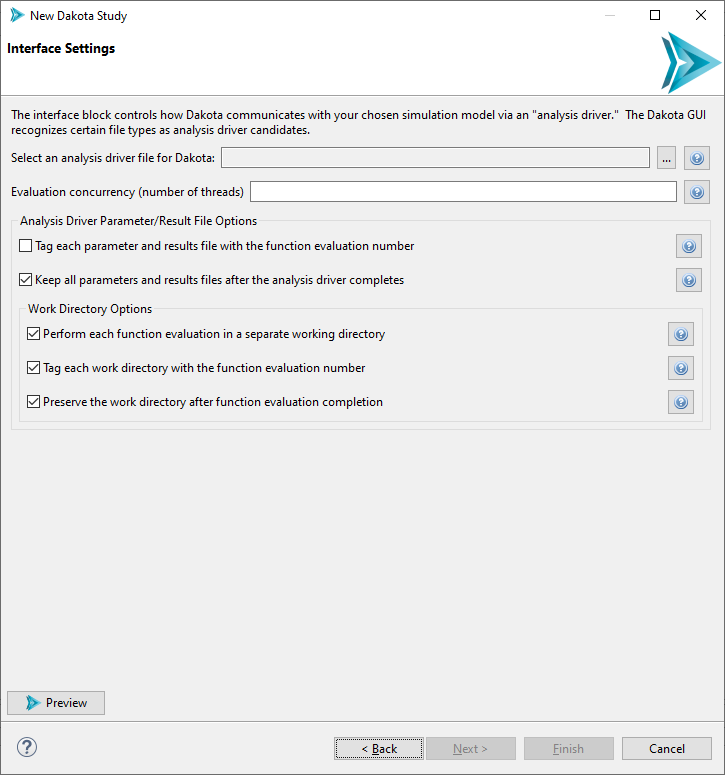
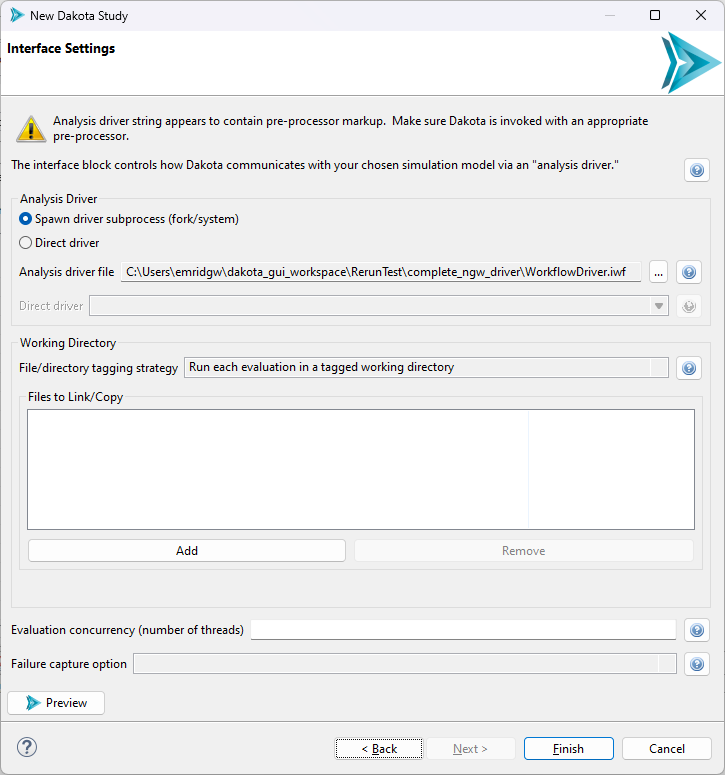
Updating existing GUI manual pages for 6.19 release

diff --git a/docs/user/usingdakotagui/inputfiles/DakotaVisualEditor.rst b/docs/user/usingdakotagui/inputfiles/DakotaVisualEditor.rst
@@ -16,6 +16,8 @@ If the Dakota Visual Editor is not configured as your default editor of Dakota i
 .. image:: img/DakotaVisualEditor.png
    :alt: Dakota Visual Editor
 
+.. _gui-visual-editor-top:
+
 =============
 The Top Level
 =============
@@ -25,22 +27,43 @@ When first opened, the Dakota Visual Editor shows you the top level of a Dakota 
 .. image:: img/DakotaVisualEditor_2.png
    :alt: The top level
 
-The hiearchical relationship of Dakota blocks is made explicit through indentation.  Clicking on any Dakota block will take you to the editor for that block.
+The hiearchical relationship of Dakota blocks is made explicit through indentation.
+
+Top Level Context Menu
+----------------------
+
+Right-clicking anywhere in the top-level view of a Dakota input file will give you the following pop-up context menu:
+
+.. image:: img/DakotaVisualEditor_16.png
+   :alt: The top level
+   
+- **New:** This sub-menu allows you to generate new Dakota input blocks, with options that are appropriate for the context of the existing block you clicked on. If you didn't click on any Dakota block, you can still
+  use this sub-menu to generate a Dakota environment block.
+- **Rename:** Rename the selected block's ID field. This option is enabled for every type of block except for environment blocks, which have no IDs.
+- **Reparent:** Changes the parent relationship of the selected block. This is only appropriate if you have selected a block that has multiple possible parents (for example, selecting a "variables" block in a study
+  with multiple "model" blocks).
+- **Delete:** Deletes the selected block.
+
+Diving
+------
+
+Clicking on any Dakota block will take you to the editor for that block.
 
 After diving into a specific Dakota block, the action bar along the top of the editor will update:
 
 .. image:: img/DakotaVisualEditor_3.png
    :alt: Button enablement
 
-The left and right arrow buttons will allow you to traverse to the previous or next Dakota block in the input file, respectively.  The up arrow will allow you to return to the top of the Dakota input file.
-
-Also note the green play button in the action bar.  This will allow you to run the Dakota study right away, using an
-auto-generated :ref:`run configuration <gui-run-configurations-eclipse-run-configs>` with default settings.
+- The left and right arrow buttons will allow you to traverse to the previous or next Dakota block in the input file, respectively.
+- The up arrow will allow you to return to the top of the Dakota input file.
+- The "(x)=" will allow you to :ref:`modify pre-processor elements <gui-visual-editor-preproc>`. If there is no pre-processor markup in your Dakota input file, this button will be dithered.
+- The purple beaker icon will allow to apply any known :ref:`recipes <gui-inputfiles-blockrecipes>` to this block of the Dakota input file.
+- The green play button in the action bar will allow you to run the Dakota study right away, using an auto-generated :ref:`run configuration <gui-run-configurations-eclipse-run-configs>` with default settings.
 
 Finally, note that there are "?" buttons throughout the editors for specific Dakota blocks (typically to the far-right of an individual editor control).
 The "?" button will take you to the appropriate :ref:`keyword reference page in this manual <keyword-reference-area>`.
 
-When you are done making changes to the Dakota input file, simply save the file as you would with any other text editor.
+.. _gui-visual-editor-environment:
 
 ==================
 Environment Blocks
@@ -50,6 +73,8 @@ Here is an example of a Dakota environment block in the Dakota Visual Editor.
 
 .. image:: img/DakotaVisualEditor_4.png
    :alt: The environment block
+   
+.. _gui-visual-editor-method:
    
 =============
 Method Blocks
@@ -83,25 +108,17 @@ There is now no longer a need to keep track of values by index.  The step vector
 the proper variable, simply by being on the same row of the table.  Also, each variable's initial value is provided as well, to give additional context
 that can inform analysts what to choose for the step vector and steps-per-variable columns.
 
-.. note::
-   Not all Dakota methods are supported with custom editors.  However, the Dakota team is working to add more and more custom method editor support
-   with each release.  As of version :ref:`6.16.0 <releasenotes-gui-616>` of Dakota GUI, the following methods are supported with custom method editors:
+Choosing a Method
+-----------------
 
-   - :ref:`centered_parameter_study <method-centered_parameter_study>`
-   - :ref:`coliny_ea <method-coliny_ea>`
-   - :ref:`hybrid <method-hybrid>`
-   - :ref:`list_parameter_study <method-list_parameter_study>`
-   - :ref:`multidim_parameter_study <method-multidim_parameter_study>`
-   - :ref:`multilevel_sampling <method-multilevel_sampling>`
-   - :ref:`optpp_cg <method-optpp_cg>`
-   - :ref:`optpp_q_newton <method-optpp_q_newton>`
-   - :ref:`optpp_fd_newton <method-optpp_fd_newton>`
-   - :ref:`optpp_g_newton <method-optpp_g_newton>`
-   - :ref:`optpp_newton <method-optpp_newton>`
-   - :ref:`optpp_pds <method-optpp_pds>`
-   - :ref:`sampling <method-sampling>`
-   - :ref:`soga <method-soga>`
-   - :ref:`vector_parameter_study <method-vector_parameter_study>`
+The Dakota Visual Editor now fully supports all Dakota methods. Because there are ~75 Dakota methods to choose from, it can be somewhat overwhelming to select
+the right one. Not to worry! The Dakota Visual Editor's method block section contains a Google-esque search bar that allows you to partially type in method names
+to find the method you're looking for. It is located directly below the "Method ID" field:
+
+.. image:: img/DakotaVisualEditor_17.png
+   :alt: Search for methods by name
+
+.. _gui-visual-editor-model:
 
 ============
 Model Blocks
@@ -111,6 +128,8 @@ Here is an example of a model block in the Dakota Visual Editor.
 
 .. image:: img/DakotaVisualEditor_11.png
    :alt: The model block
+
+.. _gui-visual-editor-variables:
 
 ===============
 Variable Blocks
@@ -169,6 +188,8 @@ The other continuous state variables in this example have been hidden from view.
 exposed as table columns.  From this view, if you want to edit the properties of an individual variable, you no longer have to push the "Edit" button along the
 top of the table - you can simply directly edit the property using the table.
 
+.. _gui-visual-editor-interface:
+
 ================
 Interface Blocks
 ================
@@ -183,6 +204,8 @@ Now let's look at a more complex example:
 .. image:: img/DakotaVisualEditor_12.png
    :alt: A fork driver example
    
+.. _gui-visual-editor-responses:
+  
 ===============
 Response Blocks
 ===============
@@ -234,14 +257,17 @@ scalar responses in this example have been hidden from view.  In addition, the p
 From this view, if you want to edit the properties of an individual response, you no longer have to push the "Edit" button along the top of the table -
 you can simply directly edit the property using the table.
 
+.. _gui-visual-editor-preproc:
+
 ==========================
 Using Pre-processor Markup
 ==========================
 
 To replace a value in a Dakota study with pre-processing markup (i.e. curly brace syntax), use the
-hotkey combination **Ctrl+Shift+P** (P for "parameterize").  The value's text will turn orange and bold, and
-curly braces will automatically be added around the existing text for you.  You can now put whatever you like between the curly
-braces to indicate the name of your pre-processing variable:
+hotkey combination **Ctrl+Shift+P** (P for "parameterize"). You can also right-click the field and choose "Create a parameter".
+
+The value's text will turn orange and bold, and curly braces will automatically be added around the existing text for you.
+You can now put whatever you like between the curly braces to indicate the name of your pre-processing variable:
 
 .. image:: img/DakotaVisualEditor_15.png
    :alt: Pre-processing example

diff --git a/docs/user/usingdakotagui/ngw/nodes/localDispatchAndCollect.rst b/docs/user/usingdakotagui/ngw/nodes/localDispatchAndCollect.rst
@@ -8,33 +8,60 @@ localDispatchAndCollect
 Description
 -----------
 
-TODO
+The localDispatchAndCollect node is used to asynchronously kick off a process separate from Dakota. It is designed to ingest a Dakota
+parameter file and produce results that will be written to a Dakota results file. Because it takes a single
+set of Dakota parameters and produces a single set of Dakota results, this node is
+**intended to be run as part of a Dakota analysis driver.** That is, a localDispatchAndCollect node is not designed to iterate
+over a parameter space, but is itself driven by Dakota.
 
------
-Notes
------
+The localDispatchAndCollect node's name comes from its two-step strategy. It is intended to be run asynchronously
+with Dakota (in what is sometimes called "offline mode"). After this node spawns a new process (i.e. the dispatch step),
+the node will exit early, returning fail values to Dakota. Even though they are "fail" values, this immediate return
+indicates that the spawned process is off running somewhere else. Then, at a later date, the analyst is expected to run Dakota
+at least one more time. When it's executed again, the localDispatchAndCollect node is smart enough to pick up the data
+generated by each job on the remote machine and return it to Dakota (i.e. the collect step), rather than send
+fresh values for remote job submission.
 
-TODO
+In short - it is not necessary to leave Dakota up and running while you wait for all your evaluation processes to complete.
+
+Finally, note that this node's name starts with "local." This is done to differentiate its behavior from a similar node,
+:ref:`the dispatchAndCollect node,<ngw-node-dispatchAndCollect>` which is designed to submit jobs to remote machines, not spawn
+local processes.
 
 ----------
 Properties
 ----------
 
-- **driver:**
-- **responseFileName:**
-- **failValue:**
-- **expectedEvals:**
-- **rerunFailedEvaluations:**
+- **driver:** The key text needed to start the inner driver separate from Dakota. This is intended to be a command-line
+  statement - for example, launching a Python script. If you intend to launch another Next-Gen Workflow IWF file as your inner driver,
+  it is recommended that it first passes through a :ref:`dakotaWorkflowDriver <ngw-node-dakotaWorkflowDriver>` node and then is
+  passed in through the "driver" input port instead.
+- **responseFileName:** The expected name of the file that response names and values will be written to. As a reminder,
+  this responses file will be filled with "fail values" the first time this node dispatches a process for the evaluation,
+  but responses will be collected to this file once the spawned process completes successfully.
+- **failValue:** The value used for the localDispatchAndCollect node to recognize that the evaluation failed for whatever
+  reason on the remote machine. "Fail" is used somewhat broadly here, as any unfinished process is also considered a failure.
+  Typically, "NaN" is used to designate a fail value, but you are allowed to change it
+  if "NaN" already has reserved meaning according to your driver. However, you must select *some* reserved value to indicate failure.
+- **expectedEvals:** A comma-separated string that allows you to control which evaluations are processed. This feature is particularly
+  useful if you would like to "throttle" Dakota on subsequent runs, and force it only re-evaluate certain evaluations. For example, a
+  string value of "4,10,11" used here would make Dakota re-evaluate evaluations 4, 10, and 11, but all other evaluations previously
+  completed would preserve their existing values.
+- **rerunFailedEvaluations:** Set this to true to force the evaluation to re-run - even if data already exists in the
+  evaluation directory - but only if the previous evaluation failed.
 
 -----------
 Input Ports
 -----------
 
-- **paramsFile:**
-- **driver:**
+- **paramsFile:** The Dakota parameters file which provides the input to the inner driver that will be spawned as a separate process.
+- **driver:** The input port version of "driver." This is intended to be a command-line statement passed in as a string -
+  for example, the command needed to launch a Python script. However, if you intend to launch another Next-Gen Workflow
+  IWF file as your inner driver, it is recommended that it first passes through a :ref:`dakotaWorkflowDriver <ngw-node-dakotaWorkflowDriver>`
+  node before being passed into this input port.
 
 ------------
 Output Ports
 ------------
 
-- **responsesMap:**
+- **responsesMap:** A map of response labels and response values. This map can be passed to a :ref:`dakotaResultsFile <ngw-node-dakotaResultsFile>` node for further processing.

diff --git a/docs/user/usingdakotagui/wizards/NewDakotaStudy.rst b/docs/user/usingdakotagui/wizards/NewDakotaStudy.rst
@@ -146,21 +146,23 @@ Page 6 (Interface Settings)
 
 The final page of the wizard is concerned with configuring Dakota's interface block.
 
-- **Analysis Driver Selection** Use this file selector to select an analysis driver for Dakota.  If
-  you :ref:`created a nested workflow <gui-nestedworkflowtutorial-main>`, select the .iwf file.  After selecting, hit the
-  Preview button to see that the Dakota Study wizard has automatically figured out the correct settings for the interface block based on
-  our analysis driver type.
-- **Evaluation concurrency (number of threads)** Use this option to configure how multithreaded you want Dakota to be.
-- **Analysis Driver Parameter/Result File Options** Using the first two checkboxes, you can configure whether Dakota should keep the parameter/results files for
-  each evaluation, and whether each file should be tagged with a number indicating the evaluation.
-  
-  - Consult :ref:`this section <couplingtosimulations-paramformat>` for more information on the format Dakota uses for parameters and results when communicating with an external analysis driver. 
+.. note::
 
-- **Working Directory Options** Finally, you can also configure whether Dakota's analysis driver should run in a private working directory for each evaluation, and whether
-  those working directories should similarly be tagged and saved after each evaluation completes.
+   If you see a warning at the top of the page that says, "Analysis driver string appears to contain pre-processor markup. Make sure Dakota is invoked with an appropriate pre-processor,"
+   this is usually triggered by selecting a Next-Gen Workflow IWF file as your chosen driver, which means the markup used will be ``{DRIVER}``. You can smoothly launch Dakota with this
+   type of pre-processor markup using either the :ref:`New Dakota Wrapper Workflow wizard <ngw-analysisdrivers-sandwich>` or the :ref:`"Dakota (Workflow)" run configuration <gui-run-configurations-workflow>`.
+
+- **Analysis Driver:** This section allows you to select your driver. The primary use case is to use the "Spawn driver subprocess (fork/system)" option, which instructs Dakota
+  to launch a separate subprocess for the driver. If you :ref:`created a nested workflow <gui-nestedworkflowtutorial-main>`, the IWF file itself will be your target workflow, even though it is
+  not executable (see above note). You can also alternately use this section to select a built-in Dakota driver by selecting the "Direct driver" radio option.
+- **Working Directory:** Use the dropdown to select how you want Dakota to configure its working directory. There are several ways to configure tagging/saving working directories and files, but the
+  wizard provides the most common options. Additionally, this section provides you with a "Files to Link/Copy" area for adding files that Dakota must link/copy into working directories. This is critically
+  important to specify manually, as it's often not possible for the wizard to automatically determine which files need to be included as part of the core analysis driver file.
+- **Evaluation concurrency (number of threads):** Use this option to configure how multithreaded you want Dakota to be.  
+- **Failure capture option:** Use this option to configure the :ref:`failure capture option <interface-failure_capture>` you want Dakota to use.
   
 ==========
 Next Steps
 ==========
 
-If you used an .iwf file as your analysis driver, learn about :ref:`the final step <ngw-analysisdrivers-sandwich>` required to run your Dakota Study using Next-Gen Workflow.
+If you used an IWF file as your analysis driver, learn about :ref:`the final step <ngw-analysisdrivers-sandwich>` required to run your Dakota Study using Next-Gen Workflow.

diff --git a/docs/user/usingdakotagui/ngw/nodes/dispatchAndCollect.rst b/docs/user/usingdakotagui/ngw/nodes/dispatchAndCollect.rst
@@ -11,8 +11,8 @@ Description
 The dispatchAndCollect node is used to submit a workflow to a remote machine. It is designed to ingest a Dakota
 parameter file and produce results that will be written to a Dakota results file. Because it takes a single
 set of Dakota parameters and produces a single set of Dakota results, this node is
-**intended to be run as part of a Dakota analysis driver.** That is, the node itself is not designed to iterate
-over a parameter space, but is driven by Dakota.
+**intended to be run as part of a Dakota analysis driver.** That is, a dispatchAndCollect node is not designed to iterate
+over a parameter space, but is itself driven by Dakota.
 
 The dispatchAndCollect node's name comes from its two-step strategy. It is intended to be run asynchronously
 with Dakota (in what is sometimes called "offline mode"). After this node submits a workflow to a remote machine (i.e. the dispatch step),
@@ -47,7 +47,7 @@ Properties
 - **dispatcherInExpertMode:** Use this if you want the dispatched workflow to run in :ref:`expert mode.<ngw-expertmode>`
   For most simple examples, this can be set to false.
 - **rerunFailedEvaluations:** Set this to true to force the evaluation to re-run - even if data already exists in the
-  evaluation directory - bit only if the previous evaluation failed.
+  evaluation directory - but only if the previous evaluation failed.
 
 **Remote Submission**
 
@@ -109,7 +109,7 @@ Usage Notes - Editing Control Scripts
 
 Refer to the main documentation for each control script to learn more about its function and what to consider editing:
 
-- :ref:`submit-dakota.sh <gui-job-submission-workflow-dakotaQueueSubmit-scripts-submit>`
+- :ref:`submit-dispatch.sh <gui-job-submission-workflow-dakotaQueueSubmit-scripts-submit>`
 - :ref:`status.sh <gui-job-submission-workflow-common-scripts-status>`
 - :ref:`checkjob.sh <gui-job-submission-workflow-common-scripts-checkjob>`
 - :ref:`cancel.sh <gui-job-submission-workflow-dakotaQueueSubmit-scripts-cancel>`
